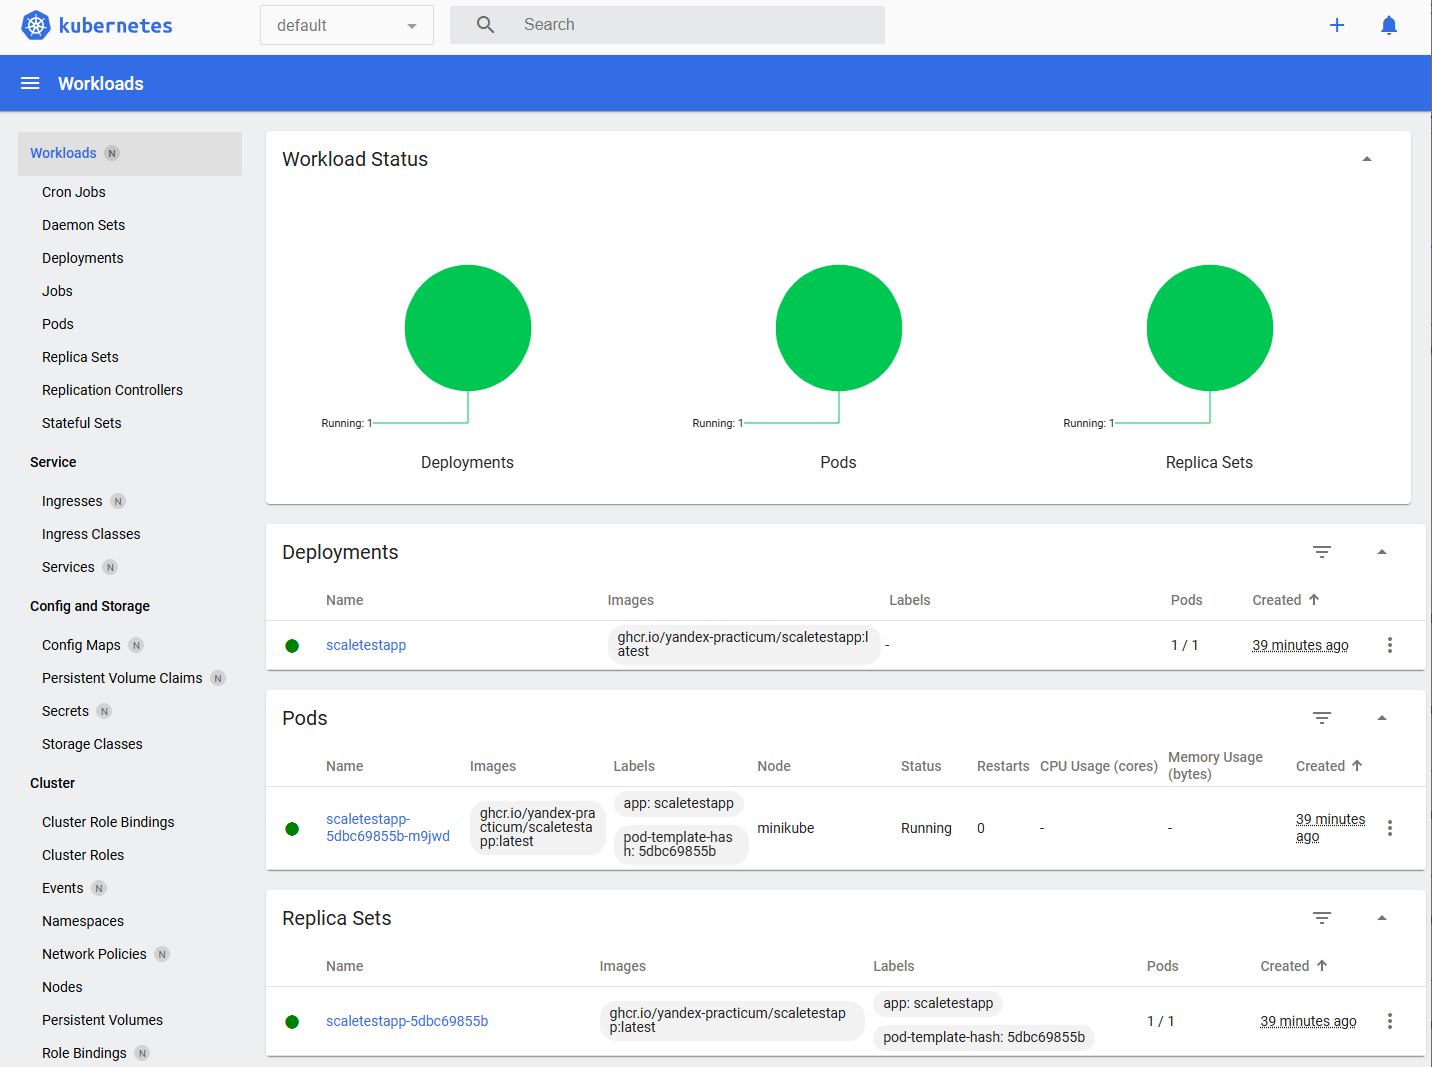
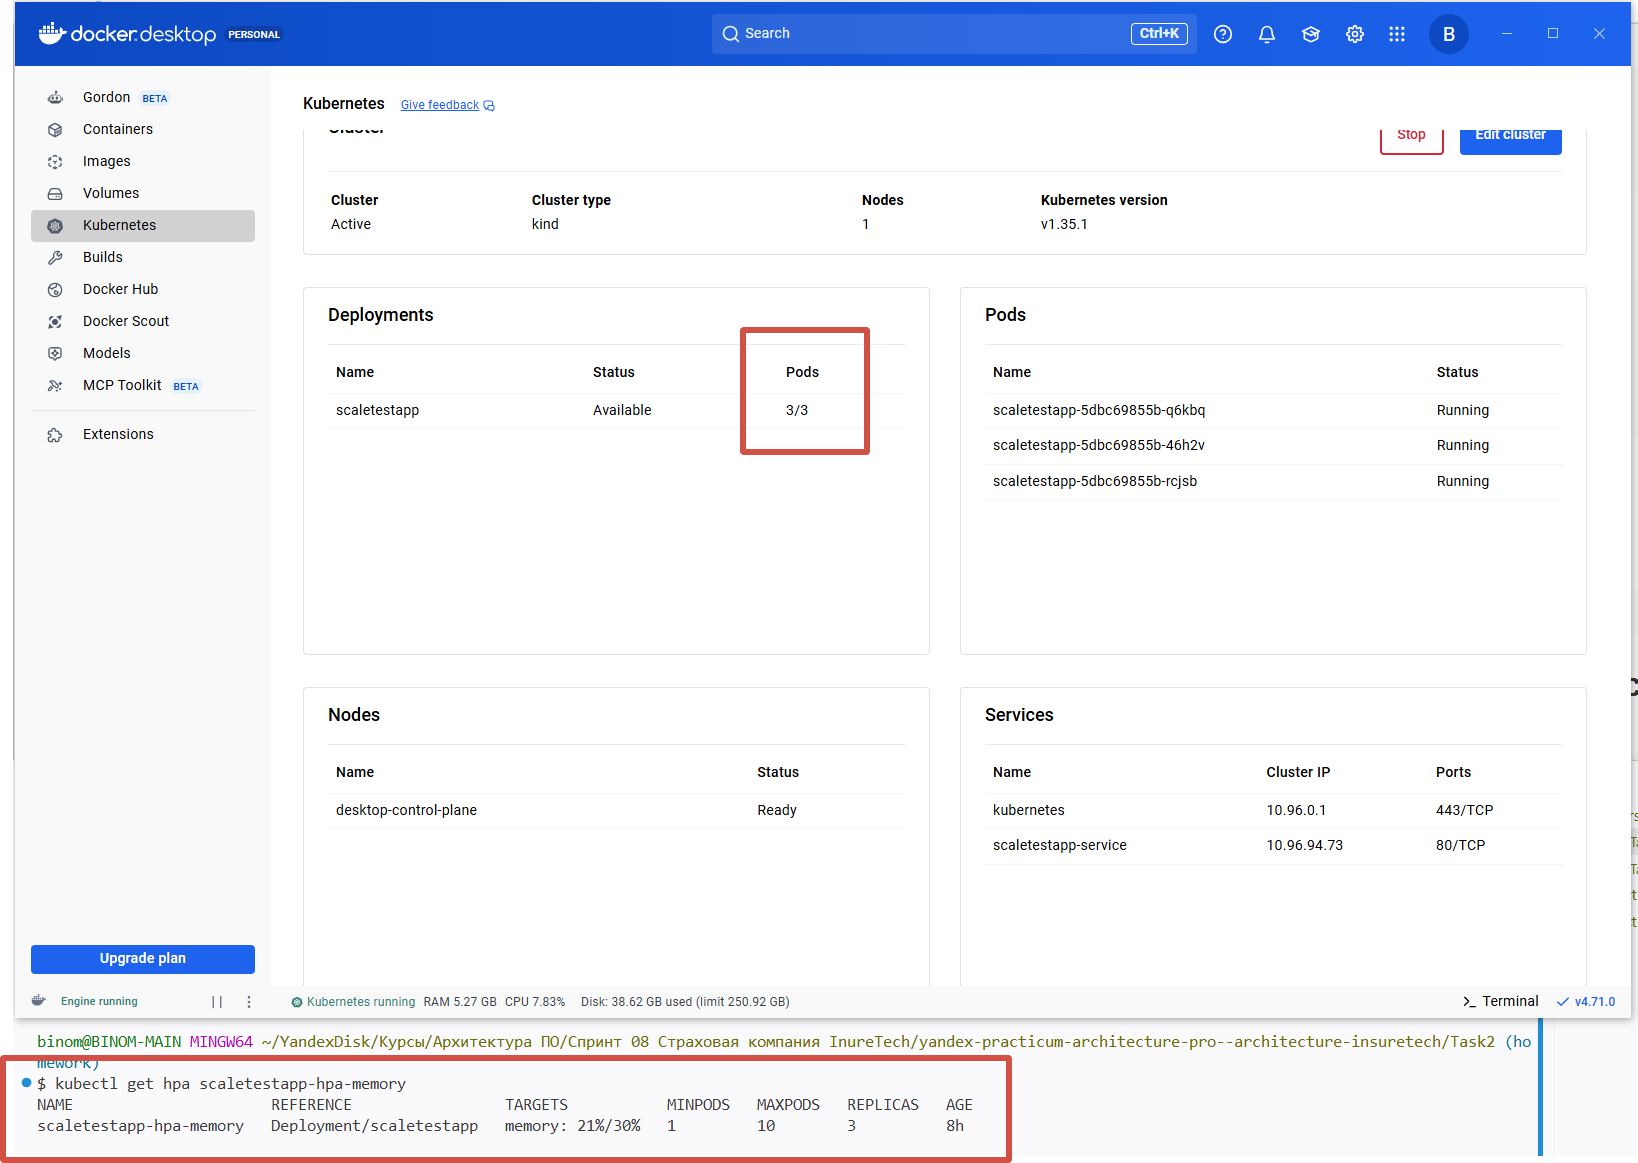
task2_1 is completed

diff --git a/Task2/locustfile.py b/Task2/locustfile.py
@@ -1,8 +1,9 @@
-from locust import HttpUser, between, task
+from locust import HttpUser, between, task, constant_pacing
 
 class WebsiteUser(HttpUser):
-    wait_time = between(1, 5)
-
+    #wait_time = between(1, 5)
+    wait_time = constant_pacing(0.05)  # запрос каждые 50 мс
+    
     @task
     def index(self):
         self.client.get("/")

diff --git a/Task2/README.md b/Task2/README.md
@@ -34,6 +34,16 @@ kubectl top nodes
 kubectl top pods -A
 
 
+Проблема — нестабильный доступ к k8s.gcr.io / registry.k8s.io из РФ. Слои начинают скачиваться, но обрываются.
+Решение: локальный образ + правка манифеста
+Шаг 1. Скачайте образ через доступное зеркало
+
+# Китайское зеркало (работает стабильнее)
+docker pull registry.cn-hangzhou.aliyuncs.com/google_containers/metrics-server:v0.8.1
+
+# Перетегируйте под ожидаемый путь
+docker tag registry.cn-hangzhou.aliyuncs.com/google_containers/metrics-server:v0.8.1 `
+  registry.k8s.io/metrics-server/metrics-server:v0.8.1
 
 ```
 
@@ -49,12 +59,17 @@ kubectl apply -f hpa-memory.yaml
 
 ```bash
 minikube service scaletestapp-service --url
+
+kubectl port-forward service/scaletestapp-service 8080:80
+kubectl get service scaletestapp-service
+
+
 ```
 
 ### 4. Запуск нагрузки (в соседнем терминале)
 
 ```bash
-locust --host=<URL_ИЗ_ШАГА_3> # locust --host=http://127.0.0.1:64211
+locust --host=<URL_ИЗ_ШАГА_3> # locust --host http://localhost:8080
 
 
 MINIKUBE_IP=$(minikube ip)
